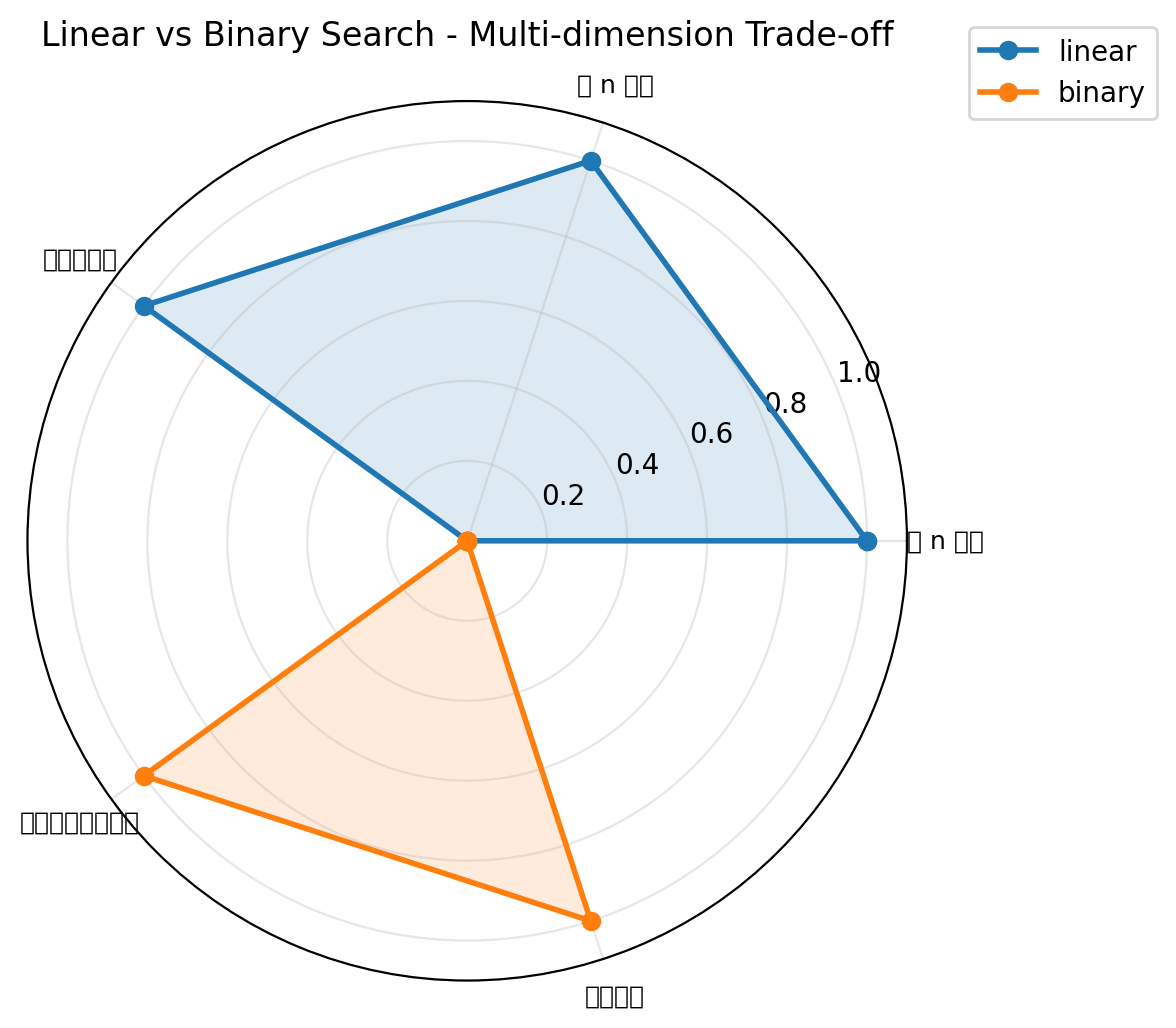
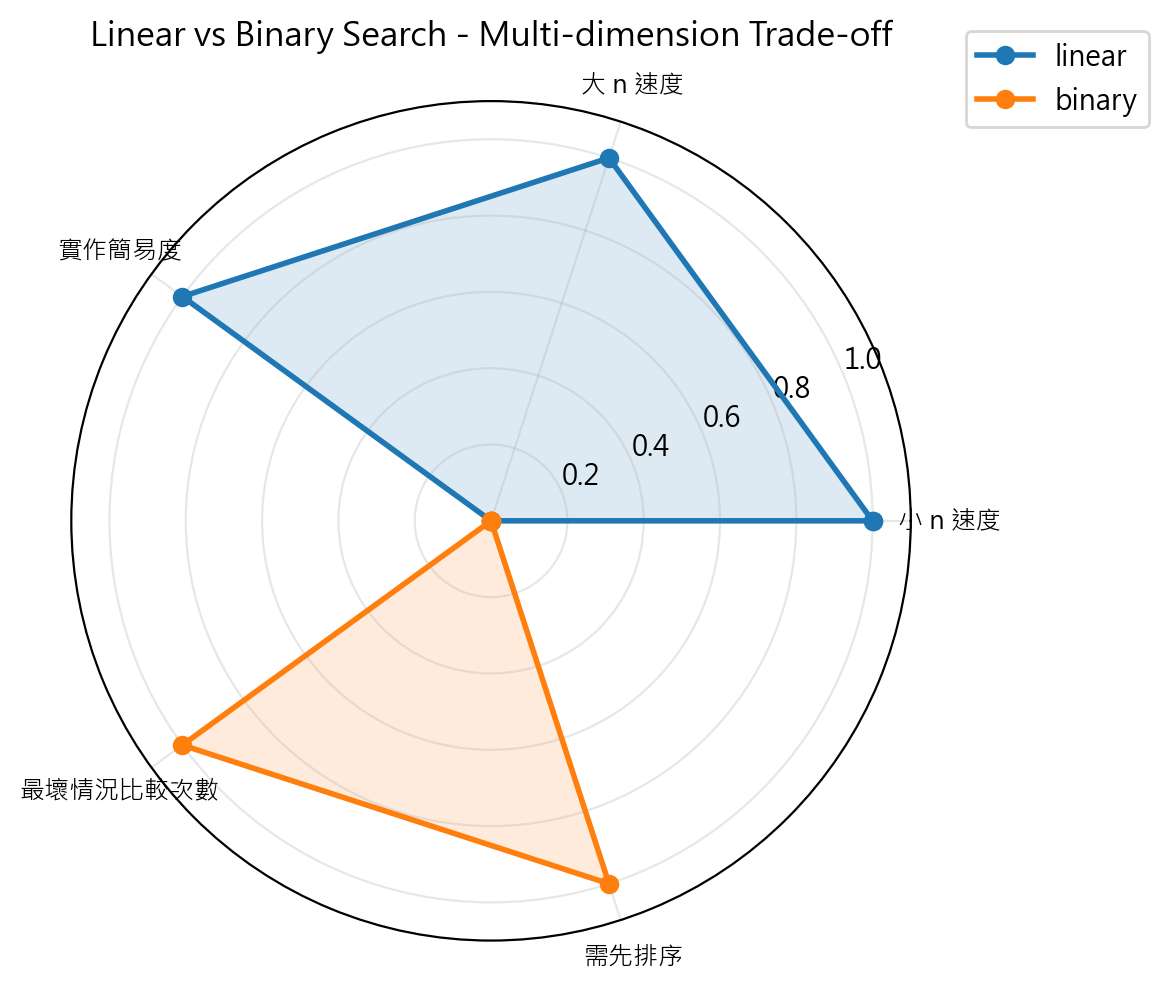
feat: update radar chart with Chinese font

diff --git a/weeks/week-18/solutions/1114405018/plot_radar.py b/weeks/week-18/solutions/1114405018/plot_radar.py
@@ -1,6 +1,9 @@
 import matplotlib
 matplotlib.use("Agg")
 import matplotlib.pyplot as plt
+
+plt.rcParams['font.sans-serif'] = ['Microsoft JhengHei']  # Windows 微軟正黑體
+plt.rcParams['axes.unicode_minus'] = False  # 修正負號顯示
 import numpy as np
 from task4_binary_search import timeit_compare
 
